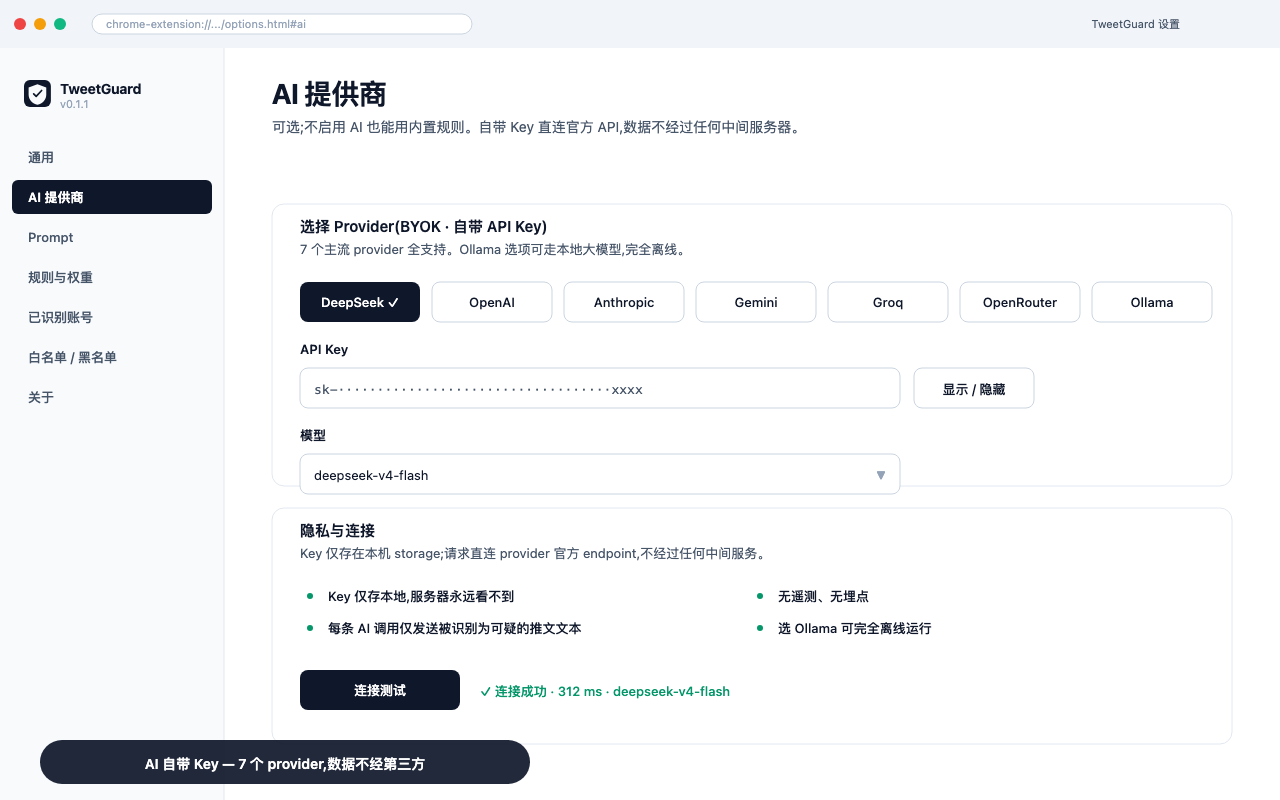
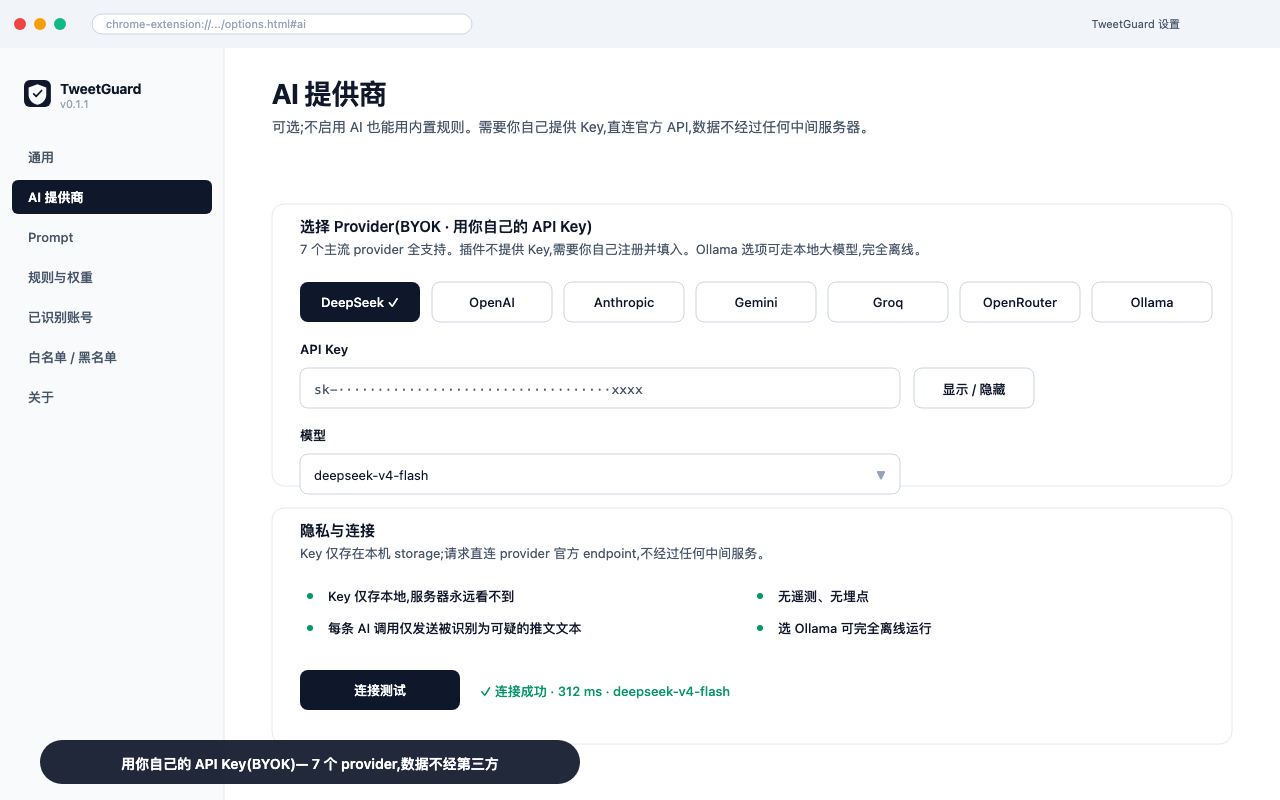
fix(marketing): 修正事实错误 + 措辞歧义("自带 Key" → "自备 Key/BYOK")
实际渲染图自检 + 对照 src/defaults.js 实际值核对,发现 2 类问题:

【事实错误,以前靠对话推断而没去代码核对】
- HARD_RULES 截图 1 写的 R1/R3 全错:
  · R1 黑名单 → 实际 id 是「黑名单」(中文 id)
  · R3 已知钓鱼/短链域 → 实际是「pump.fun 链接 + 是回复」(加密 shill)
  · R10 漏写「+ 是回复」约束
  · R7 描述泛化,现在按 defaults.js 写出真实关键词列表

【措辞歧义,「自带 Key」在中文里可被理解为「产品自带」】
代码 DEFAULT_CONFIG.ai.apiKey = '',插件完全不提供任何 Key。
全工程改:
- README.md 中文(英文 "Bring your own" 不歧义,保留)
- marketing/README.md 文案建议
- screenshot-5-ai-provider:副标 + 卡片标题 + 底部 chip 三处
- marquee-1400x560:卖点行
统一改为「自备 Key(BYOK)」/「需要你自己提供 API Key」/「插件不提供 Key,需要你自己注册并填入」

【marketing/README.md 新增设计原则】
- 事实严格对齐代码(HARD_RULES/SCORING_SIGNALS/PROVIDERS 都按 defaults.js 实际值写)

视觉自检结果:8 张图无白边、无扭曲、构图统一,文字清晰可读。

diff --git a/marketing/README.md b/marketing/README.md
@@ -22,6 +22,7 @@
 ## 设计原则(为什么这样画)
 
 - **视觉与扩展实际 UI 一致**:配色 / 圆角 / 字号严格按 [options.css](../options/options.css) 的 CSS 变量取值(`--bg-soft #F8FAFC` / `--text #0F172A` / `--accent #0F172A` / `--success #059669` 等),避免店里看到的预期与装上后看到的实际产生落差。
+- **事实严格对齐代码**:硬规则、评分信号、provider 列表等数字与名称都按 [defaults.js](../src/defaults.js) 的 `HARD_RULES` / `SCORING_SIGNALS` / `PROVIDERS` 实际值写,不靠记忆推断。
 - **浏览器壳 + sidebar + 底部浮层标题** 五张截图统一构图,扫一眼能看出是同一产品的不同界面。
 - **图标含 16px 透明 padding**,严格符合 Chrome Web Store「96 内容 + 16 padding」规范(原 icon 满铺,违反规范)。
 
@@ -55,7 +56,7 @@ done
 ## 店面文案建议(可选)
 
 - **标题**:TweetGuard — 静默过滤 X 信息流里的垃圾推文
-- **简短描述**(132 字符内):本地过滤 X 上的色情 bot、加密引流、营销号;五重检测 + 可选 AI 复审 + 社区规则共建;完全开源,无服务器、无遥测。
+- **简短描述**(132 字符内):本地过滤 X 上的色情 bot、加密引流、营销号;五重检测 + 可选 AI 复审(自备 API Key)+ 社区规则共建;完全开源,无服务器、无遥测。
 - **详细描述**:可直接复用 [README.md](../README.md) 的「简介」+「工作原理」+「功能」段。
 - **类别**:Productivity 或 Social & Communication
 - **语言**:zh_CN(主) + en_US(可选,有英文 README 复用)